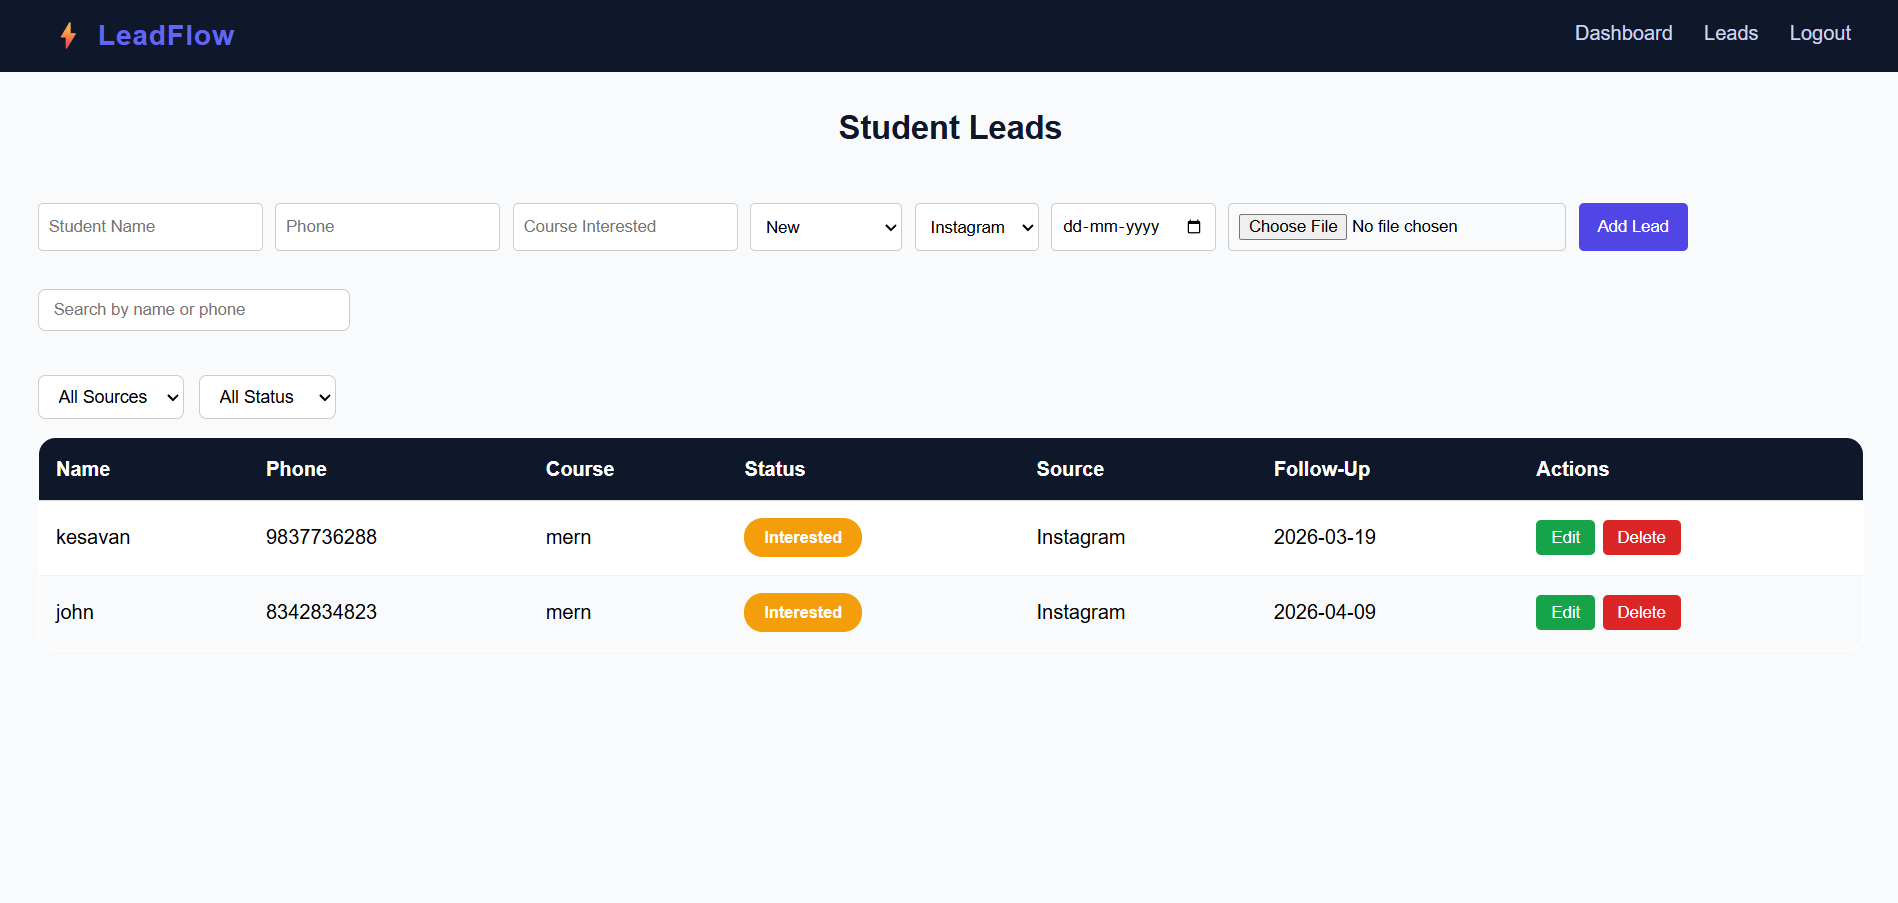
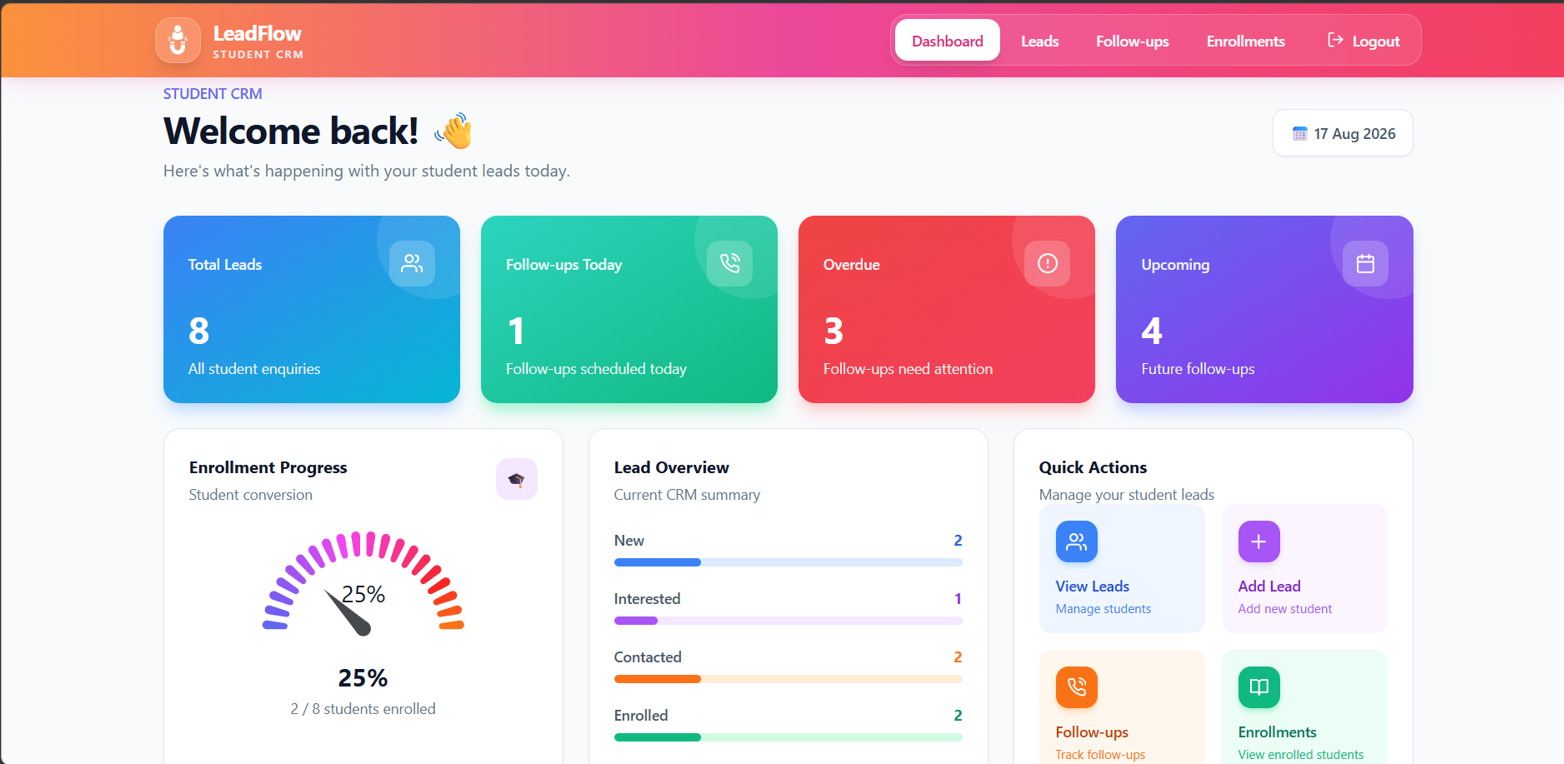
updated project

diff --git a/src/components/Projects.jsx b/src/components/Projects.jsx
@@ -1,37 +1,112 @@
+import { useState } from "react";
 import { motion } from "framer-motion";
-import { FaFolderOpen } from "react-icons/fa";
+import {
+  FaFolderOpen,
+  FaChevronLeft,
+  FaChevronRight,
+} from "react-icons/fa";
 
 export default function Projects() {
   const projects = [
     {
       title: "Headless CMS",
-      img: "/Headless-cms.png",
+      images: [
+        "/Headless-cms.png",
+        "",
+        "",
+      ],
       github: "https://github.com/Kesavakumar10/Headless-cms-client-react",
       live: "https://blogspace-cms.netlify.app",
       description:
         "Developed a full-stack Headless CMS with AI-powered blog and image generation, rich text editing, SEO management, scheduled publishing, and secure admin authentication.",
-      tech: ["React", "Vite", "Tailwind CSS", "Node.js", "Express.js", "MongoDB", "JWT", "Multer", "Tiptap", "Gemini AI", "Pollinations AI"],
+      tech: [
+        "React",
+        "Vite",
+        "Tailwind CSS",
+        "Node.js",
+        "Express.js",
+        "MongoDB",
+        "JWT",
+        "Multer",
+        "Tiptap",
+        "Gemini AI",
+        "Pollinations AI",
+      ],
     },
+
     {
       title: "Lead Management CRM",
-      img: "/CRM.png",
-      github: "https://github.com/Kesavakumar10/leadflow/tree/main/frontend/myapp",
+      images: [
+        "/CRM.png",
+        "/CRM1.png",
+        "",
+      ],
+      github:
+        "https://github.com/Kesavakumar10/leadflow/tree/main/frontend/myapp",
       live: "https://leadflowcr.netlify.app/",
       description:
         "Developed a CRM dashboard to manage leads and streamline customer follow-ups.",
-      tech: ["React", "Node.js", "Express.js", "MongoDB", "JWT", "REST API"],
+      tech: [
+        "React",
+        "Tailwind CSS",
+        "Node.js",
+        "Express.js",
+        "MongoDB",
+        "Mongoose",
+        "JWT",
+        "REST API",
+        "Axios",
+        "Node Cron",
+        "Nodemailer",
+      ],
     },
-    {
-      title: "Shopping Cart Web Application",
-      img: "/WebCart.png",
-      github: "https://github.com/Kesavakumar10/EliteArena",
-      live: "https://elitecart1.netlify.app/",
-      description:
-        "Built a responsive shopping cart app with smooth product browsing and cart management.",
-      tech: ["React", "JavaScript", "CSS", "Material-UI", "Node.js", "Express.js", "MongoDB", "REST API"],
-    },
-    
+
+    // {
+      // title: "Shopping Cart Web Application",
+    //   images: [
+    //     "/WebCart.png",
+    //     "",
+    //     "",
+    //   ],
+    //   github: "https://github.com/Kesavakumar10/EliteArena",
+    //   live: "https://elitecart1.netlify.app/",
+    //   description:
+    //     "Built a responsive shopping cart app with smooth product browsing and cart management.",
+    //   tech: [
+    //     "React",
+    //     "JavaScript",
+    //     "CSS",
+    //     "Material-UI",
+    //     "Node.js",
+    //     "Express.js",
+    //     "MongoDB",
+    //     "REST API",
+    //   ],
+    // },
   ];
+
+  const [currentSlides, setCurrentSlides] = useState({});
+
+  const getValidImages = (project) => {
+    return project.images.filter((image) => image !== "");
+  };
+
+  const nextSlide = (projectIndex, totalImages) => {
+    setCurrentSlides((prev) => ({
+      ...prev,
+      [projectIndex]:
+        ((prev[projectIndex] || 0) + 1) % totalImages,
+    }));
+  };
+
+  const previousSlide = (projectIndex, totalImages) => {
+    setCurrentSlides((prev) => ({
+      ...prev,
+      [projectIndex]:
+        ((prev[projectIndex] || 0) - 1 + totalImages) %
+        totalImages,
+    }));
+  };
 
   return (
     <motion.section
@@ -43,51 +118,107 @@ export default function Projects() {
     >
       <div style={{ textAlign: "center" }}>
         <h2 className="projects-heading">PROJECT SHOWCASE</h2>
+
         {/* <p className="heading-line"></p> */}
-        <p className="projects-subtext">A glimpse into what I've been working on.</p>
+
+        <p className="projects-subtext">
+          A glimpse into what I've been working on.
+        </p>
       </div>
 
       <div className="projects-container">
-        {projects.map((project, index) => (
-          <motion.div
-            key={index}
-            className="project-card"
-            initial={{ opacity: 0, y: 50 }}
-            whileInView={{ opacity: 1, y: 0 }}
-            transition={{ duration: 0.6, delay: index * 0.2 }}
-            viewport={{ once: true }}
-          >
-            <img src={project.img} alt={project.title} />
+        {projects.map((project, index) => {
+          const images = getValidImages(project);
+          const currentIndex = currentSlides[index] || 0;
 
-            <h3 className="project-title">
-              <FaFolderOpen className="project-icon" />
-              {project.title}
-            </h3>
+          return (
+            <motion.div
+              key={index}
+              className="project-card"
+              initial={{ opacity: 0, y: 50 }}
+              whileInView={{ opacity: 1, y: 0 }}
+              transition={{
+                duration: 0.6,
+                delay: index * 0.2,
+              }}
+              viewport={{ once: true }}
+            >
+              <div className="project-image-slider">
+                <img
+                  src={images[currentIndex]}
+                  alt={project.title}
+                />
 
-            <p className="project-description">{project.description}</p>
+                {images.length > 1 && (
+                  <>
+                    <button
+                      type="button"
+                      className="slider-btn slider-prev"
+                      onClick={() =>
+                        previousSlide(index, images.length)
+                      }
+                      aria-label="Previous image"
+                    >
+                      <FaChevronLeft />
+                    </button>
 
-            <div className="project-tech-section">
-              <p className="tech-heading">Tech Stack</p>
-              <div className="project-tech">
-                {project.tech.map((item, i) => (
-                  <span key={i} className="tech-pill">
-                    {item}
-                  </span>
-                ))}
+                    <button
+                      type="button"
+                      className="slider-btn slider-next"
+                      onClick={() =>
+                        nextSlide(index, images.length)
+                      }
+                      aria-label="Next image"
+                    >
+                      <FaChevronRight />
+                    </button>
+                  </>
+                )}
               </div>
-            </div>
 
-            <div className="project-buttons">
-              <a href={project.github} className="project-btn github-btn">
-                GitHub
-              </a>
+              <h3 className="project-title">
+                <FaFolderOpen className="project-icon" />
+                {project.title}
+              </h3>
 
-              <a href={project.live} className="project-btn live-btn">
-                Live Demo
-              </a>
-            </div>
-          </motion.div>
-        ))}
+              <p className="project-description">
+                {project.description}
+              </p>
+
+              <div className="project-tech-section">
+                <p className="tech-heading">Tech Stack</p>
+
+                <div className="project-tech">
+                  {project.tech.map((item, i) => (
+                    <span key={i} className="tech-pill">
+                      {item}
+                    </span>
+                  ))}
+                </div>
+              </div>
+
+              <div className="project-buttons">
+                <a
+                  href={project.github}
+                  className="project-btn github-btn"
+                  target="_blank"
+                  rel="noopener noreferrer"
+                >
+                  GitHub
+                </a>
+
+                <a
+                  href={project.live}
+                  className="project-btn live-btn"
+                  target="_blank"
+                  rel="noopener noreferrer"
+                >
+                  Live Demo
+                </a>
+              </div>
+            </motion.div>
+          );
+        })}
       </div>
     </motion.section>
   );

diff --git a/src/index.css b/src/index.css
@@ -109,3 +109,37 @@ code {
   padding: 4px 8px;
   background: var(--code-bg);
 }
+
+.project-image-slider {
+  position: relative;
+}
+
+.slider-btn {
+  position: absolute;
+  top: 50%;
+  transform: translateY(-50%);
+  width: 36px;
+  height: 36px;
+  border: none;
+  border-radius: 50%;
+  background: rgba(0, 0, 0, 0.65);
+  color: white;
+  display: flex;
+  align-items: center;
+  justify-content: center;
+  cursor: pointer;
+  z-index: 5;
+  transition: 0.2s ease;
+}
+
+.slider-btn:hover {
+  background: rgba(0, 0, 0, 0.9);
+}
+
+.slider-prev {
+  left: 10px;
+}
+
+.slider-next {
+  right: 10px;
+}
